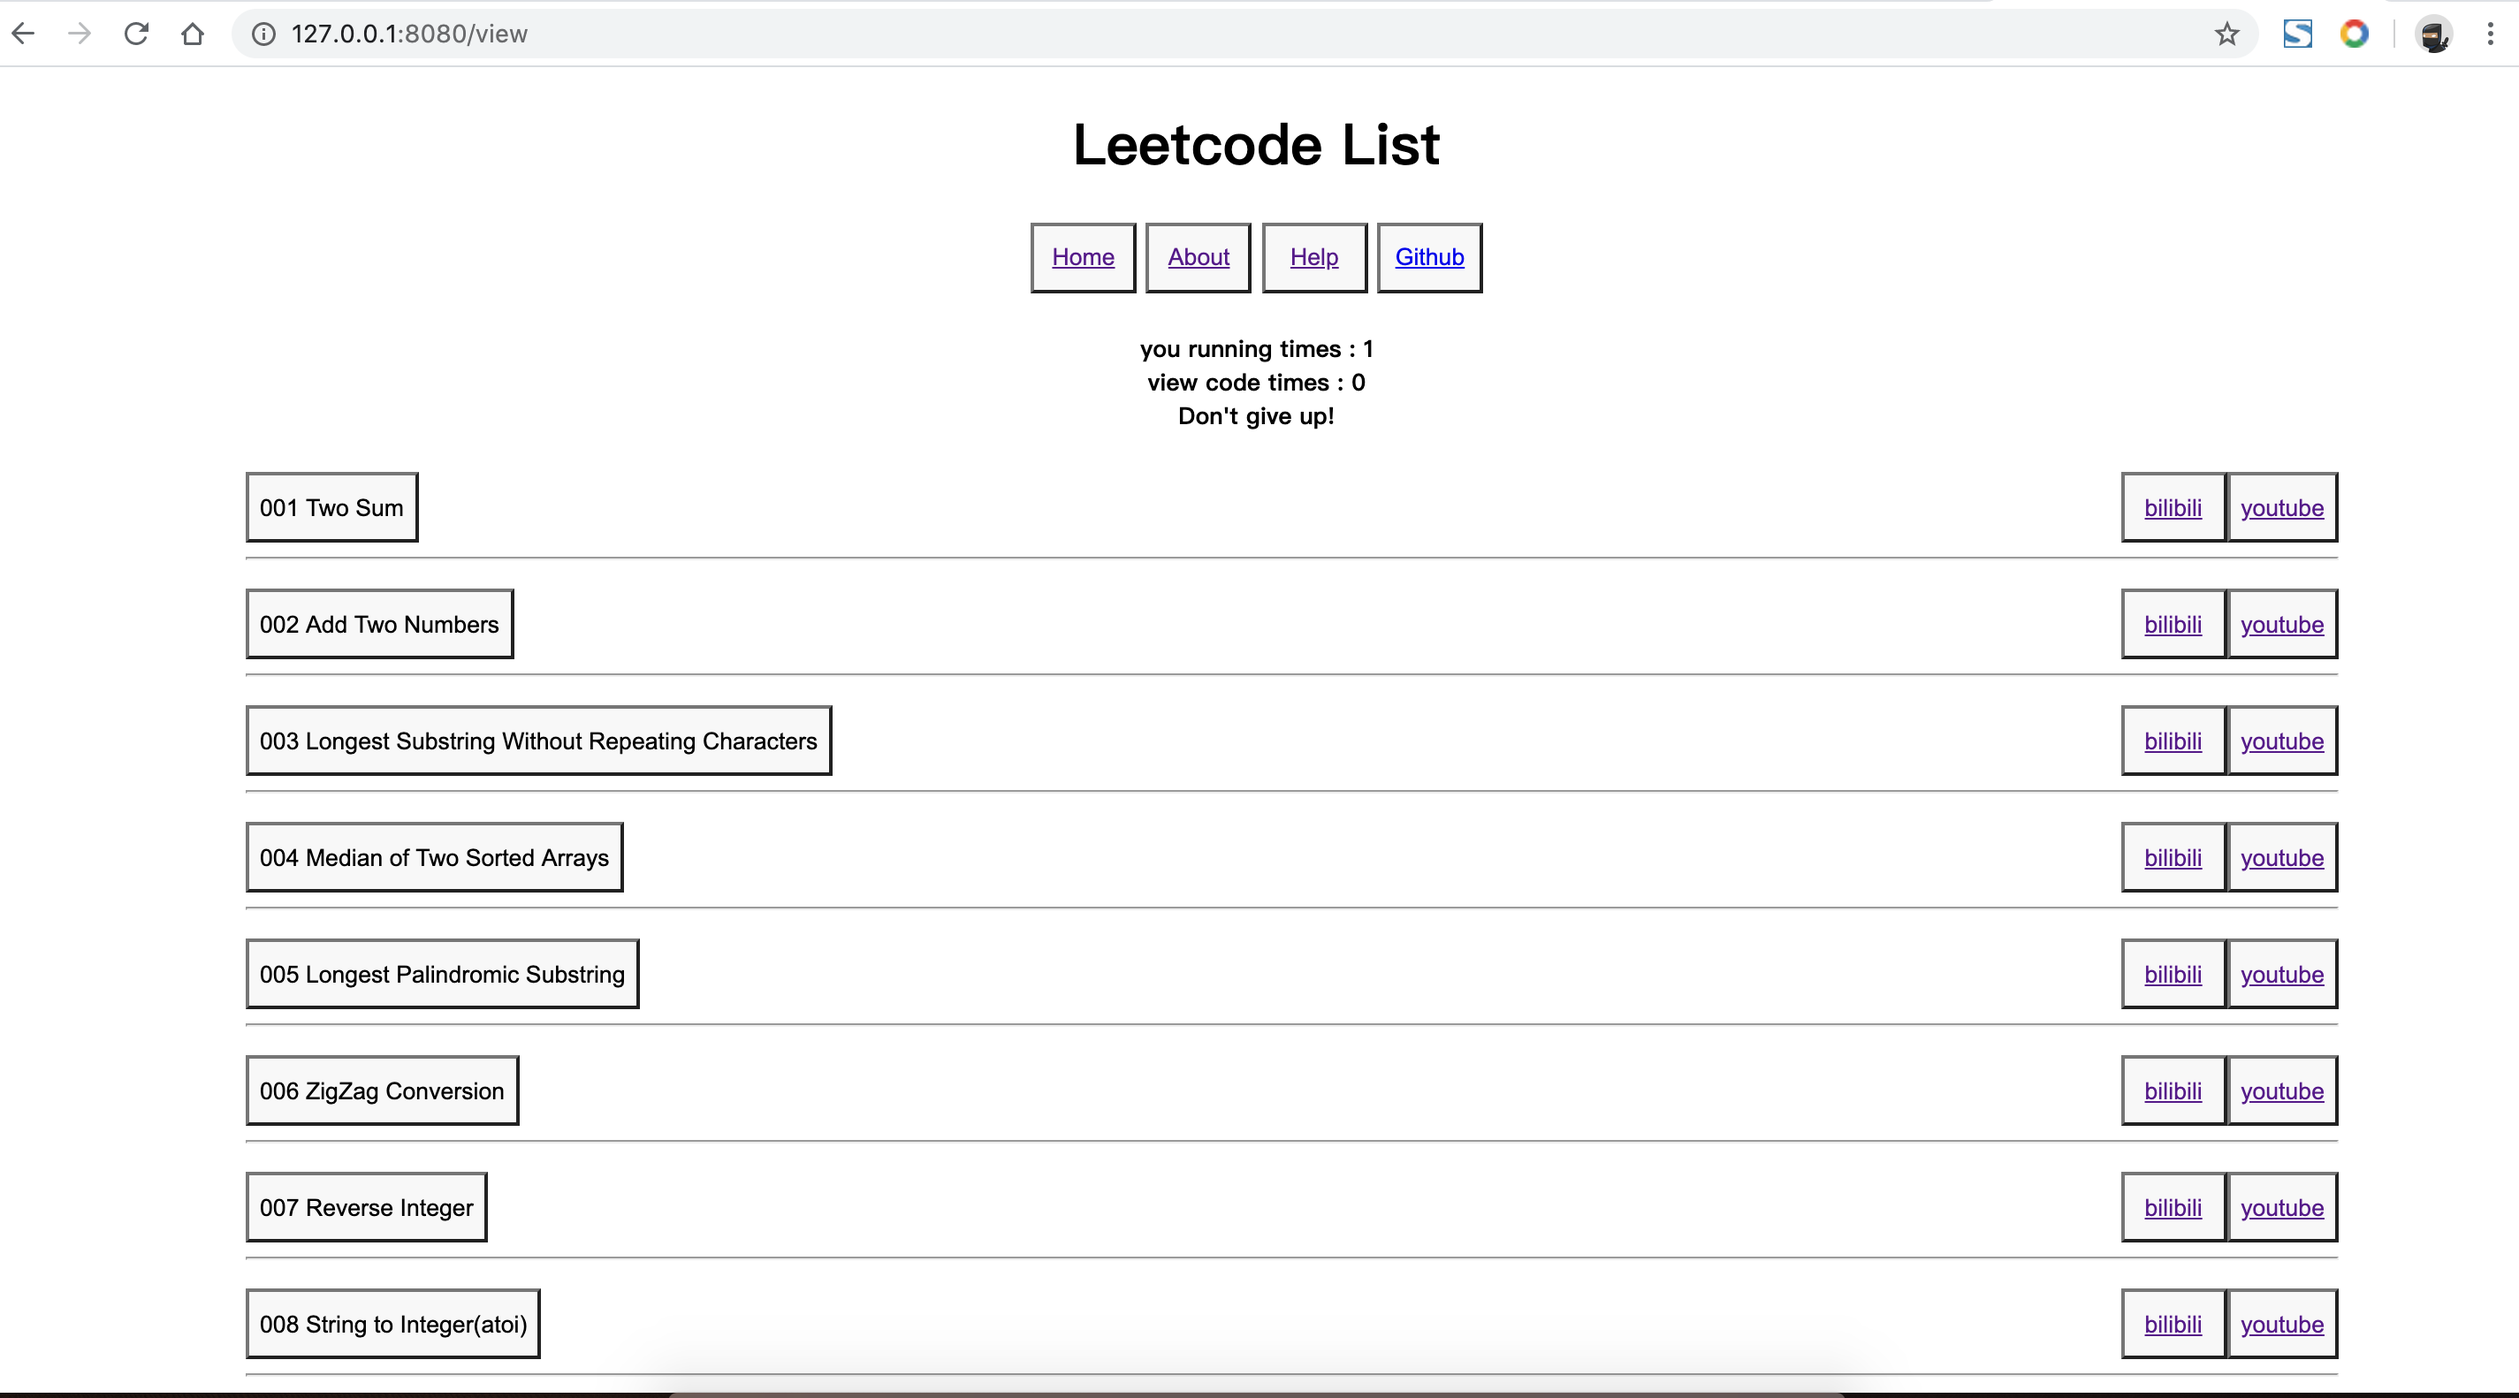
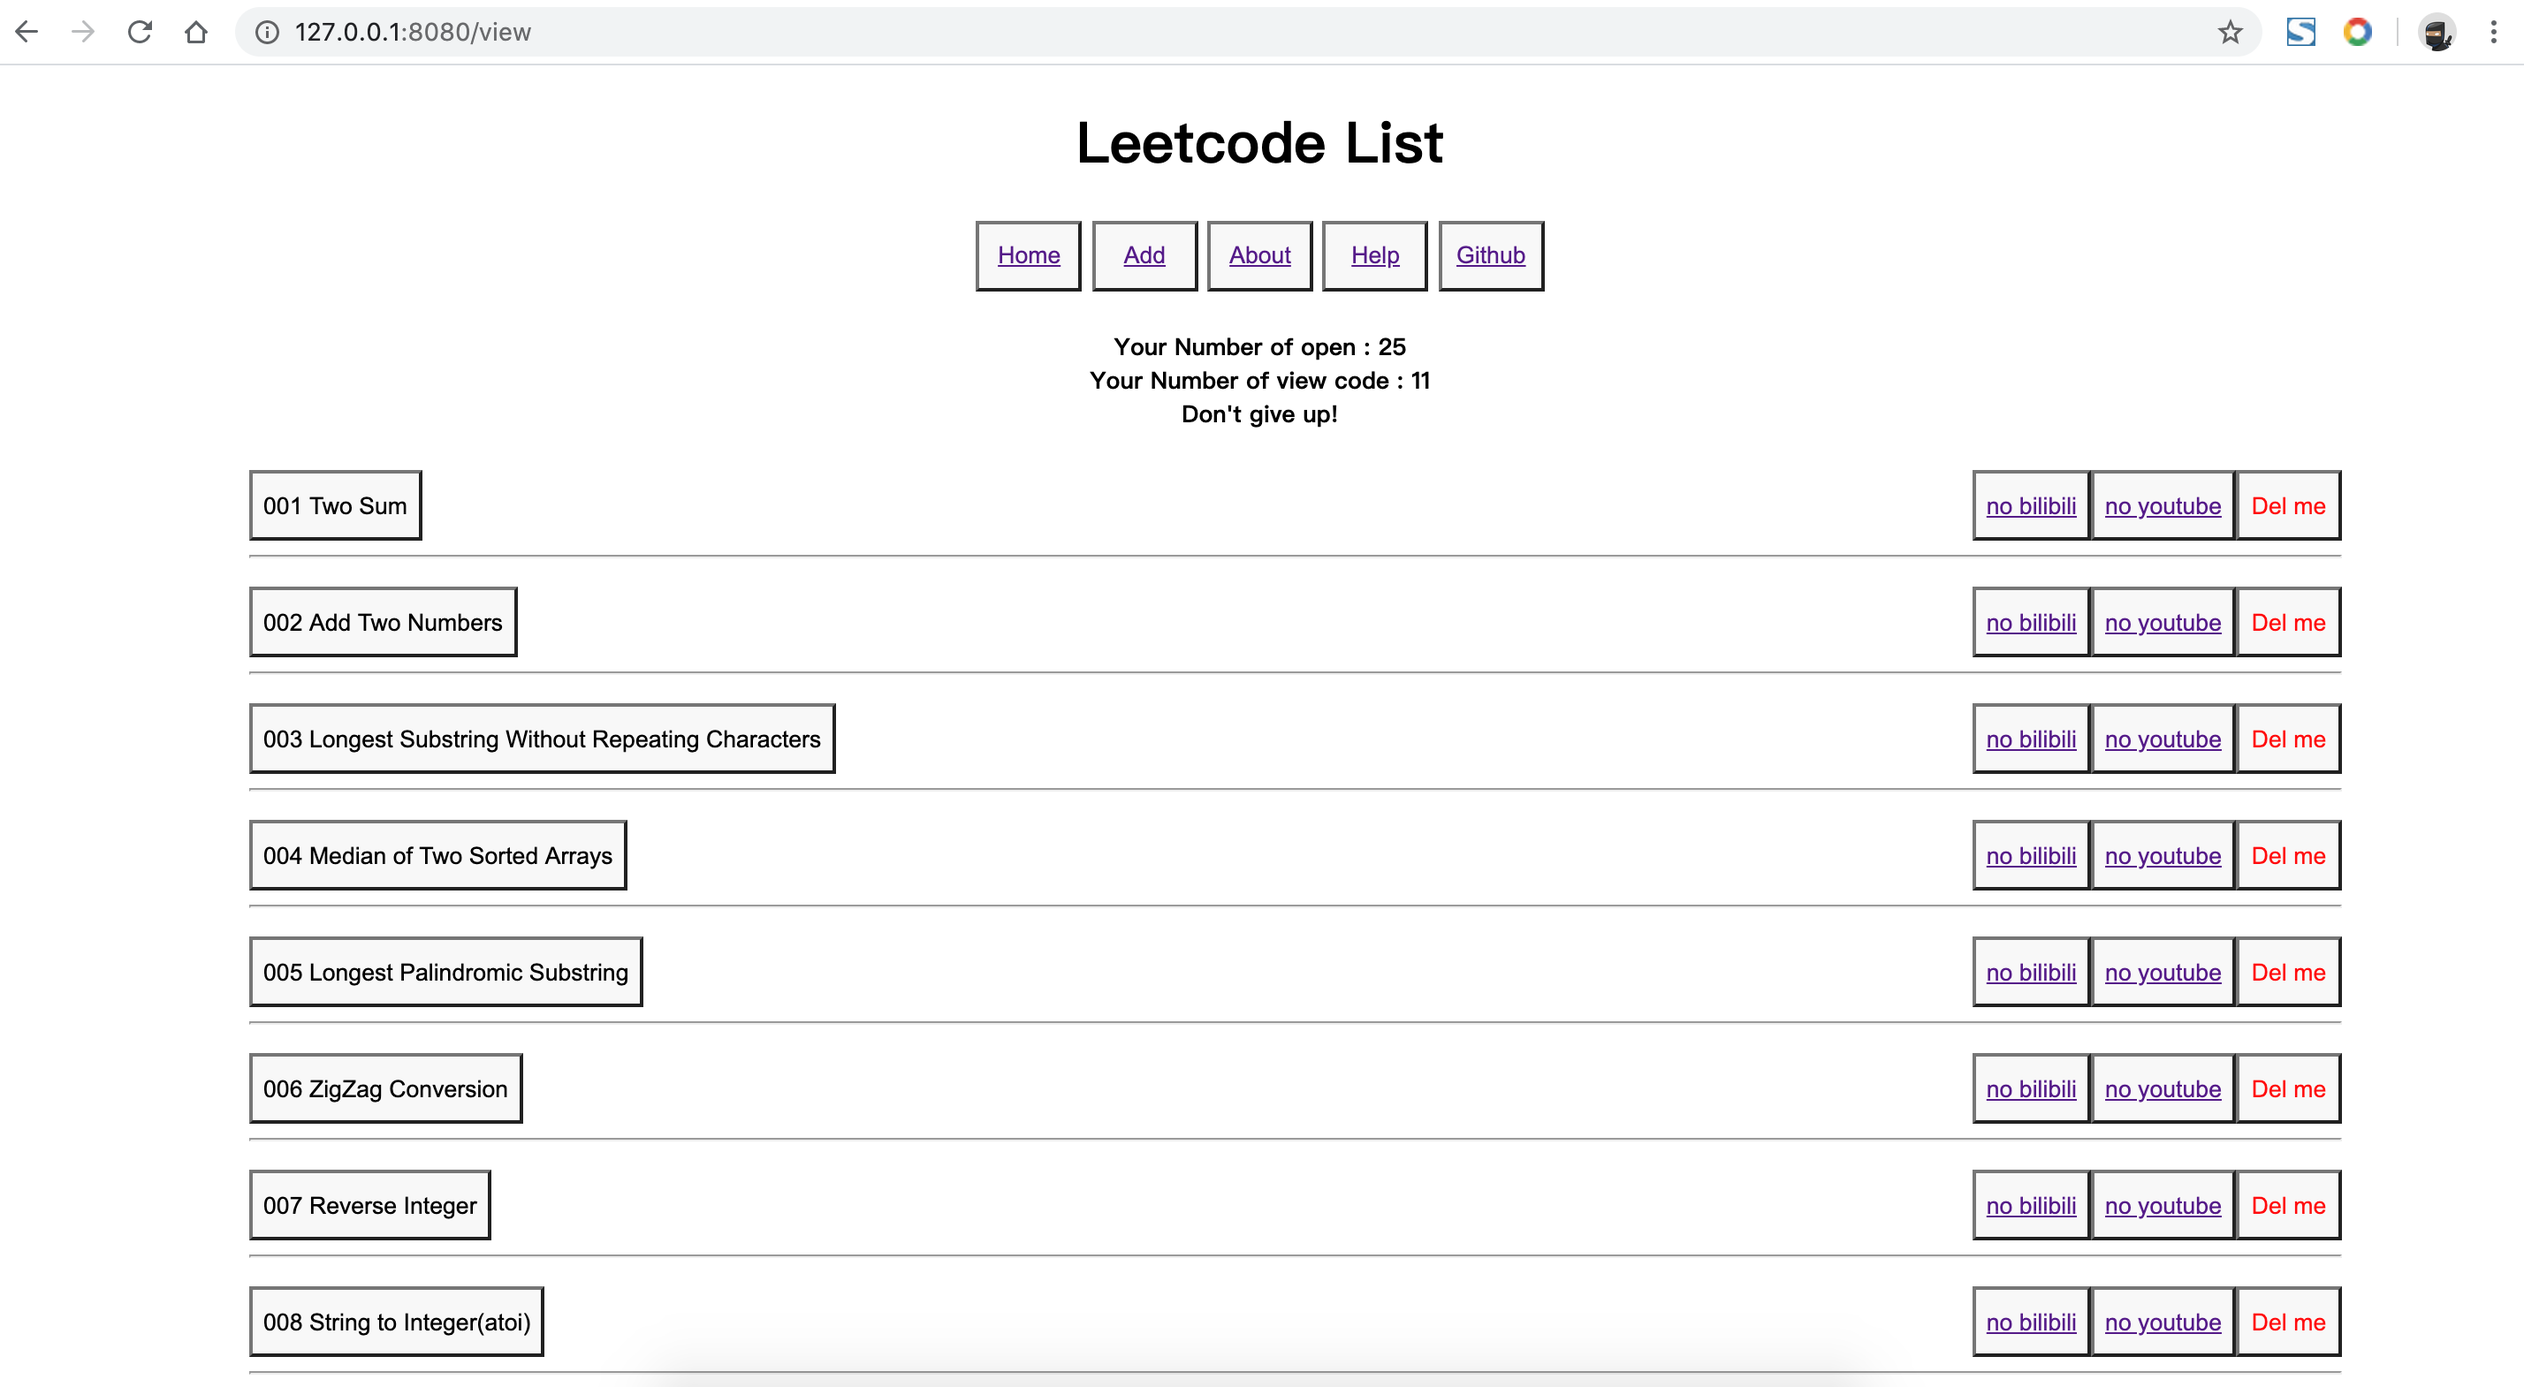
v 1.5

diff --git a/easyleetcode/web/templates/code_list.html b/easyleetcode/web/templates/code_list.html
@@ -4,6 +4,7 @@
     <meta charset="UTF-8">
     <title>Code View</title>
     <script src="/static/vue.min.js"></script>
+    <script src="/static/axios_min.js"></script>
     <style>
         ul{
             list-style-type: none;
@@ -15,8 +16,6 @@
             min-height: 40px;
             min-width: 60px;
         }
-
-
     </style>
 </head>
 <body>
@@ -24,17 +23,19 @@
 <h1 align="center"> {[message]} </h1>
 <div align="center">
     <button><a href="/"> Home</a></button>
+    <button><a href="/addview"> Add</a></button>
     <button><a href="about"> About</a></button>
     <button><a href="help"> Help</a></button>
     <button><a href="https://github.com/425776024/easy_leetcode" target="_blank">Github</a></button>
-    <h5>you running times : {[data['count_day']|tojson]}  <br/> view code times : {[data['count_view_code']|tojson]} <br/> Don't give up! </h5>
+    <h5>Your Number of open : {[data['count_day']|tojson]} <br/> Your Number of view code : {[data['count_view_code']|tojson]}
+        <br/> Don't give up! </h5>
 </div>
-<div id="senetnce" align="center">
+<div id="senetnce" align="left">
     <ul v-for="c in code_name_list" align="left">
         <button style="float:center" @click="click_func(c[0],c[1])">{{c[2]}}</button>
-
-        <button style="float:right"><a href="https://www.youtube.com/">youtube</a></button>
-        <button style="float:right"><a href="https://www.bilibili.com/">bilibili</a></button>
+        <button style="float:right;color:red" @click="del_func(c[0],c[1])">Del me</button>
+        <button style="float:right"><a href="https://www.youtube.com/">no youtube</a></button>
+        <button style="float:right"><a href="https://www.bilibili.com/">no bilibili</a></button>
         <hr/>
     </ul>
     <br/>
@@ -53,9 +54,32 @@
                 host = window.location.host;
                 url='http://'+host+'/code/'+name;
                 window.location.href = url;
+            },
+            del_func:function (idx,name) {
+                if(confirm("realy delete "+name+" ?")){
+                    console.log(name);
+                    var info = prompt("input char : Y or y to delete");
+                    if (info=="y" || info=="Y"){
+                        console.log('delete:'+name);
+                        axios.put('/delete', {
+                            "name":name,
+                          })
+                          .then(function (response) {
+                            host = window.location.host;
+                            url='http://'+host+'/view';
+                            window.location.href = url;
+                          })
+                          .catch(function (error) {
+                            console.log(error);
+                          });
+
+
+                    }
+                }
             }
         }
 });
+
 
 
 

diff --git a/easyleetcode/web/templates/index.html b/easyleetcode/web/templates/index.html
@@ -10,23 +10,16 @@
             min-width: 60px;
         }
 
-
-
-
-
-
-
-
-
     </style>
 </head>
 <body>
 <h1 align="center"> {[message]} </h1>
 <br/>
 <div align="center">
-    <button><a href="view"> View</a></button>
-    <button><a href="about"> About</a></button>
-    <button><a href="help"> Help</a></button>
+    <button><a href="/view"> View</a></button>
+    <button><a href="/addview"> Add</a></button>
+    <button><a href="/about"> About</a></button>
+    <button><a href="/help"> Help</a></button>
     <button><a href="https://github.com/425776024/easy_leetcode" target="_blank">Github</a></button>
     <pre style="font-size: 25px;">
     Hello Python 程序员//Hello Python programmer

diff --git a/easyleetcode/web/server.py b/easyleetcode/web/server.py
@@ -7,7 +7,7 @@ from fastapi import APIRouter
 
 from fastapi import Request
 from easyleetcode.config import templates
-from easyleetcode.web.code_all_in_map import get_all_code_map, get_file_read, call_py_file
+import easyleetcode.web.code_util as code_util
 from easyleetcode.web.Items import Item
 import easyleetcode.web.utils as utils
 import easyleetcode.config as config
@@ -32,19 +32,20 @@ async def about(request: Request):
     return templates.TemplateResponse("about.html", {"request": request, "message": 'Easy Leetcode'})
 
 
-# code map by id as key
-code_map = get_all_code_map()
-# code map by name as key
-code_name_map = {}
-for kid in sorted(code_map):
-    name, code_path, md_path = code_map[kid]
-    code_name_map[name] = (kid, code_path, md_path)
+code_map, code_name_map, code_name_list = utils.load_data()
 
-code_name_list = []
-for kid in sorted(code_map):
-    name, _, _ = code_map[kid]
-    title = name[2:].replace('_', ' ')
-    code_name_list.append([kid, name, title])
+
+def remove_name(name):
+    global code_name_map, code_map, code_name_list
+    kid = code_name_map[name][0]
+    del code_name_map[name]
+    del code_map[kid]
+    ci = None
+    for ci in code_name_list:
+        if ci[1] == name:
+            break
+    if ci is not None:
+        code_name_list.remove(ci)
 
 
 @router.get('/view')
@@ -62,13 +63,14 @@ async def view(request: Request):
 
 @router.get('/code/{name}')
 async def view_code(request: Request, name: str = '001_Two_Sum'):
+    global code_name_map, code_map, code_name_list
     # 代码路径
     code_path = code_name_map[name][1]
     # 代码markdwon路径
     code_md_path = code_name_map[name][2]
-    code_str = get_file_read(code_path)
-    code_md_str = get_file_read(code_md_path)
-    code_res = '\n'.join(call_py_file(code_path, python_path))
+    code_str = code_util.get_file_read(code_path)
+    code_md_str = code_util.get_file_read(code_md_path)
+    code_res = '\n'.join(code_util.call_py_file(code_path, python_path))
     data = {
         'code_str': code_str,
         'code_md_str': code_md_str,
@@ -82,6 +84,7 @@ async def view_code(request: Request, name: str = '001_Two_Sum'):
 
 @router.put('/save')
 async def save(item: Item):
+    global code_name_map, code_map, code_name_list
     name = item.name
     # python code
     code_str = item.code_str
@@ -103,15 +106,87 @@ async def save(item: Item):
     }
 
 
+@router.get('/addview')
+async def index(request: Request):
+    return templates.TemplateResponse("add_file.html", {"request": request, "message": 'Easy Leetcode'})
+
+
+@router.put('/delete')
+async def delete(item: Item):
+    global code_name_map, code_map, code_name_list
+    name = None
+    try:
+        name = item.name
+        # python code's path
+        code_path = code_name_map[name][1]
+        # python code's Markdown note 's path
+        code_md_path = code_name_map[name][2]
+        remove_name(name)
+        utils.del_file(code_path)
+        utils.del_file(code_md_path)
+        return {
+            'status': 'success',
+            'name': name
+        }
+    except Exception as e:
+        print(e)
+    return {
+        'status': 'error',
+        'name': name
+    }
+
+
+@router.put('/add')
+async def add_file(item: Item):
+    global code_name_map, code_map, code_name_list
+    name = item.name
+    # python code
+    code_str = item.code_str
+    # python code's Markdown note
+    code_md_str = item.code_md_str
+    if name not in code_name_map:
+        code_path = os.path.join(code_map[-1][1], name + '.py')
+        code_md_path = os.path.join(code_map[-1][2], name + '.md')
+    else:
+        return {
+            'status': 'error:file exist !',
+            'name': name
+        }
+
+    if code_str is None:
+        code_str = "print('" + name + "')"
+    if code_str is not None:
+        with open(code_path, 'w', encoding='utf-8') as of:
+            of.write(code_str)
+    if code_md_str is None:
+        code_md_str = "# " + name
+    if code_md_str is not None:
+        with open(code_md_path, 'w', encoding='utf-8') as of:
+            of.write(code_md_str)
+    try:
+        idx = int(name.split('_')[1])
+        title = name[2:].replace('_', ' ')
+    except:
+        idx = len(code_name_map) + 1
+        name = 'L_' + str(idx) + '_' + name
+        title = name[2:].replace('_', ' ')
+    code_map, code_name_map, code_name_list = utils.load_data()
+    return {
+        'status': 'success',
+        'name': name
+    }
+
+
 @router.put('/run')
 async def router_run(item: Item):
+    global code_name_map, code_map, code_name_list
     name = item.name
     code_str = item.code_str
     # code's python path, to temp path
     code_path = code_name_map[name][1].replace('.py', '_temp.py')
     with open(code_path, 'w', encoding='utf-8') as of:
         of.write(code_str)
-    code_res = '\n'.join(call_py_file(code_path, python_path))
+    code_res = '\n'.join(code_util.call_py_file(code_path, python_path))
     # rm temp path
     os.remove(code_path)
 
@@ -124,9 +199,10 @@ async def router_run(item: Item):
 
 @router.get('/md/{name}')
 async def view_md(request: Request, name: str = '001_Two_Sum'):
+    global code_name_map, code_map, code_name_list
     # 代码markdwon路径
     code_md_path = code_name_map[name][2]
-    code_md_str = get_file_read(code_md_path)
+    code_md_str = code_util.get_file_read(code_md_path)
     data = {
         'code_md_str': code_md_str,
         'name': name,

diff --git a/easyleetcode/web/utils.py b/easyleetcode/web/utils.py
@@ -2,6 +2,9 @@
 # -*- coding: utf-8 -*-
 # @Author  : xinfa.jiang
 # @File    : utils.py
+import os
+from easyleetcode.config import root_path
+
 
 def add_file_txt_count(file_path):
     count = 0
@@ -27,3 +30,43 @@ def get_file_txt_count(file_path):
     except:
         count = 0
     return count
+
+
+def del_file(path):
+    os.remove(path)
+
+
+def get_all_code_map(code_dir=os.path.join(root_path, 'leetcodes'),
+                     code_md_dir=os.path.join(root_path, 'leetcodes_md')):
+    code_map = {}
+    code_map[-1] = ('root', code_dir, code_md_dir)
+    for fname in os.listdir(code_dir):
+        try:
+            idx = int(fname.split('_')[1])
+            name = fname[:-3]
+        except:
+            continue
+        path = os.path.join(code_dir, fname)
+        md_path = os.path.join(code_md_dir, name + '.md')
+        code_map[idx] = (name, path, md_path)
+    return code_map
+
+
+def load_data():
+    # code map by id as key
+    code_map = get_all_code_map()
+    # code map by name as key
+    code_name_map = {}
+    for kid in sorted(code_map):
+        name, code_path, md_path = code_map[kid]
+        code_name_map[name] = (kid, code_path, md_path)
+
+    code_name_list = []
+    for kid in sorted(code_map):
+        name, _, _ = code_map[kid]
+        if name == 'root':
+            continue
+        title = name[2:].replace('_', ' ')
+        code_name_list.append([kid, name, title])
+    code_name_list = sorted(code_name_list)
+    return code_map, code_name_map, code_name_list

diff --git a/easyleetcode/web/code_util.py b/easyleetcode/web/code_util.py
@@ -1,0 +1,26 @@
+#!/usr/bin/env python
+# -*- coding: utf-8 -*-
+# @Author  : xinfa.jiang
+# @File    : code_all_in_map.py
+import os
+
+
+
+
+def get_file_read(path: str):
+    pycode = open(path, encoding='utf-8').read()
+    return pycode
+
+
+def call_py_file(path, python_path='python3 '):
+    try:
+        s = os.popen(python_path + path, 'r', 1)
+        res = s.read()
+        out = []
+        for line in res.splitlines():
+            out.append(line)
+        return out
+    except:
+        return ['null']
+
+

diff --git a/easyleetcode/web/main.py b/easyleetcode/web/main.py
@@ -29,7 +29,8 @@ def run(host="127.0.0.1", port=8080, py_cmd_path='python3 '):
     # every times running,path config.count_day 's count +=1 (running count log)
     utils.add_file_txt_count(config.count_day)
     print('_____running:____,please web browser', 'http://%s:%s' % (str(host), str(port)))
-    uvicorn.run(app=app, host=host, port=port, log_level="error")
+    # uvicorn.run(app=app, host=host, port=port, log_level="error")
+    uvicorn.run(app=app, host=host, port=port)
 
 
 if __name__ == '__main__':

diff --git a/setup.py b/setup.py
@@ -9,7 +9,7 @@ with open("README.md", "r", encoding='UTF-8') as fh:
 
 setup(
     name="easyleetcode",
-    version="1.4.1",
+    version="1.4.2",
     keywords=("easyleetcode", "bilibili", 'youtube', 'leetcode'),
     description="Leetcode easy study use Python on web",
     long_description=long_description,

diff --git a/README.md b/README.md
@@ -7,6 +7,7 @@ then , only 2 line code , in any location:
 from easyleetcode import run
 
 run()
+# or run(host="127.0.0.1", port=8080, py_cmd_path='python ')
 # or run(host="127.0.0.1", port=8080, py_cmd_path='python3 ')
 ```
 
@@ -21,7 +22,7 @@ note:
 - 你可以用它//You can use it
 - 成为轻松刷Leetcode的大神//Become the God of leetcode
 - 你可以用它//You can use it
-- 在线运行你的任意Python代码//Run your arbitrary Python code online
+- 在线运行或添加你的任意Python代码//Run or add your arbitrary Python code online
 - 你可以用它//You can use it
 - 给你的任意Python代码做Markdwon笔记//Take markdwon notes for any Python code you want
 - 它运行非常流畅//It runs very smoothly
